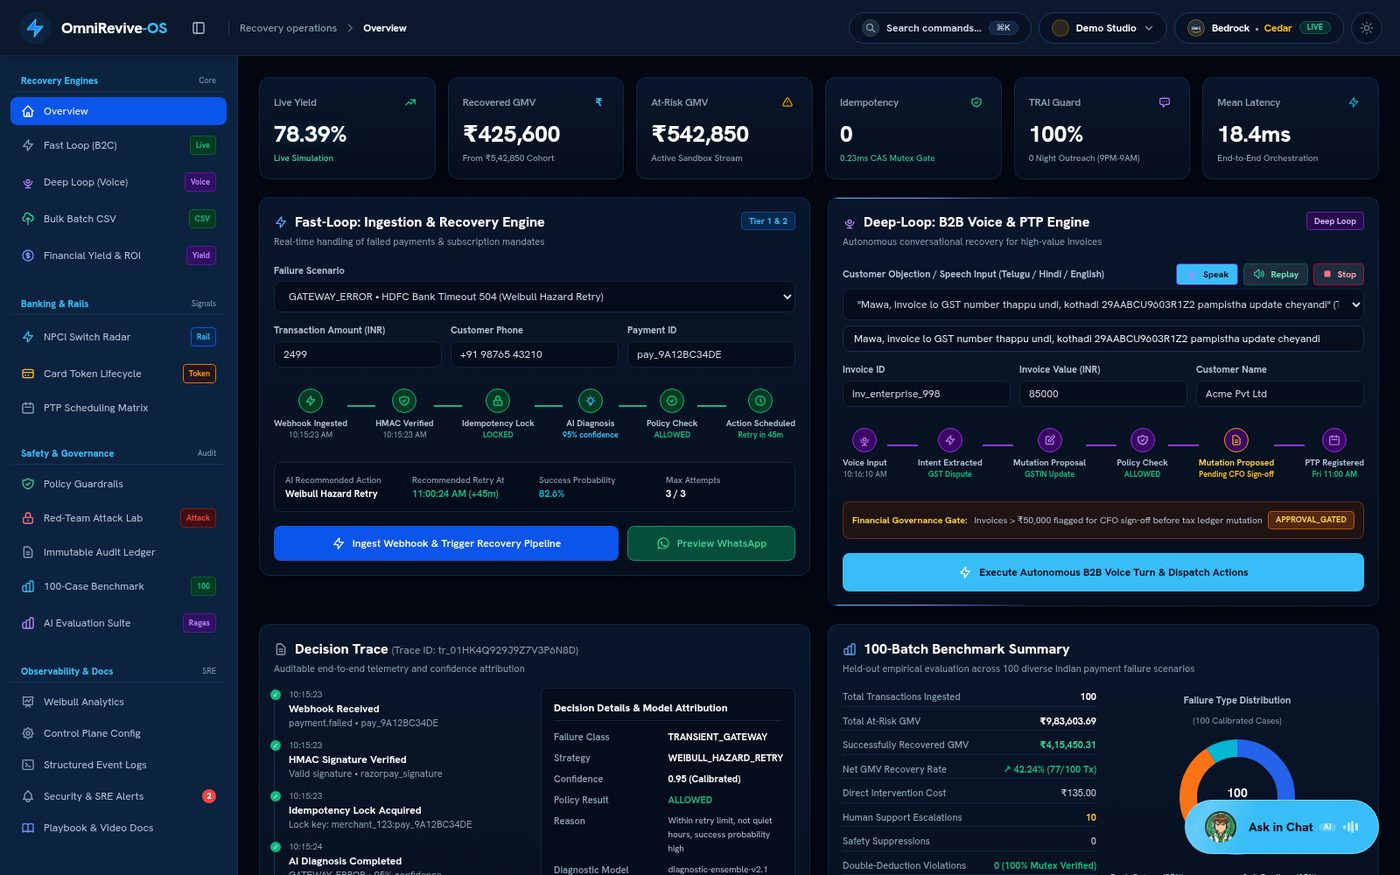
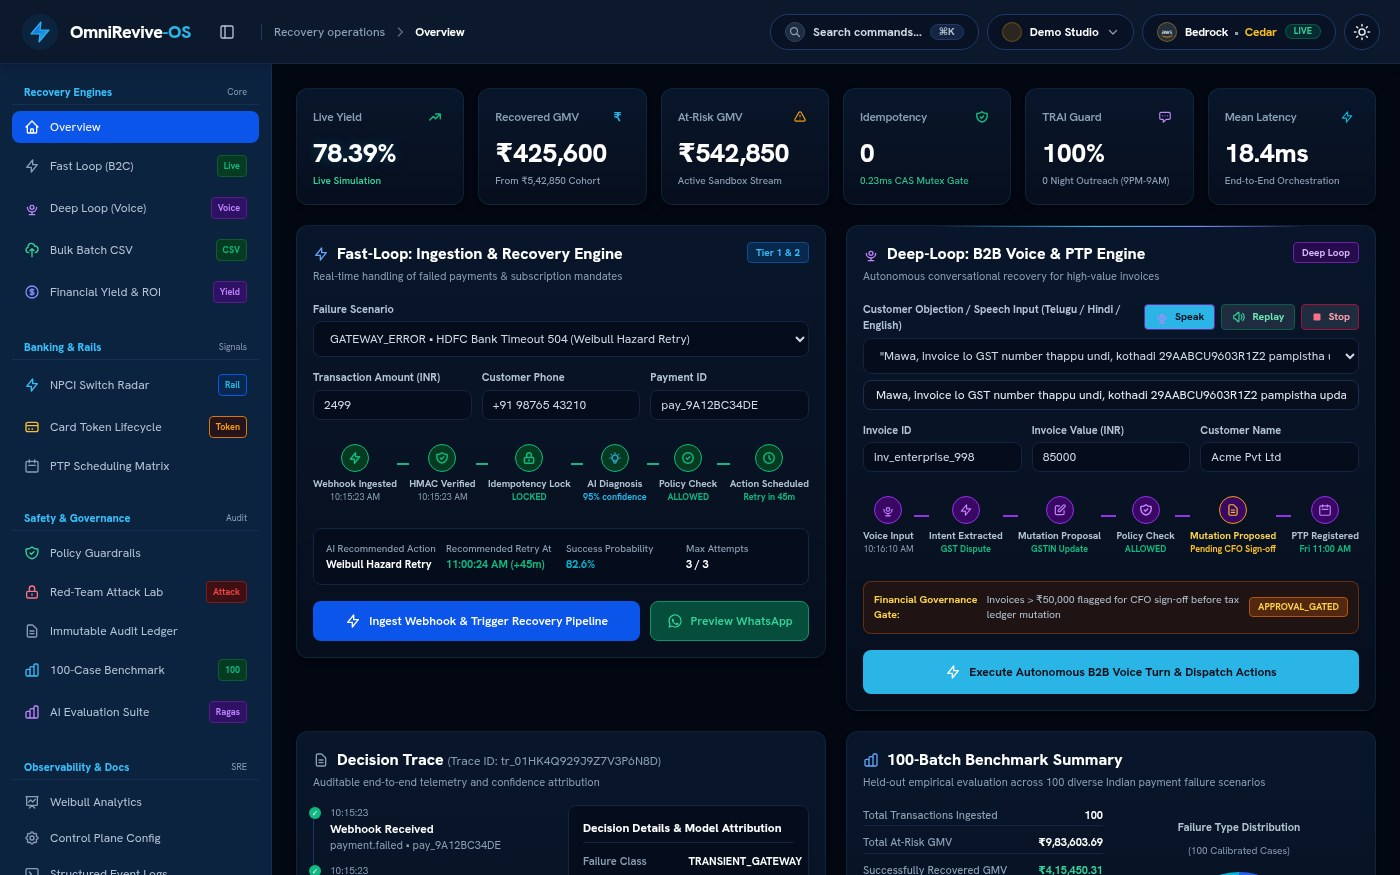
fix: single page scroller (body no longer a nested scroll container after modals), clean dashboard capture without chat widget

Changed region(s): [[0.0, 0.0, 1.0, 1.0], [0.0, 0.8023, 0.1229, 0.9566], [0.0, 0.9874, 0.1229, 1.0]]

diff --git a/frontend/index.html b/frontend/index.html
@@ -180,7 +180,7 @@
   <link rel="preconnect" href="https://fonts.gstatic.com" crossorigin>
   <link href="https://fonts.googleapis.com/css2?family=Hanken+Grotesk:wght@400;500;600;700;800&family=IBM+Plex+Mono:wght@400;500;600&display=swap" rel="stylesheet">
   <link rel="stylesheet" href="/static/styles/main.css?v=2.9">
-  <link rel="stylesheet" href="/static/styles/refresh.css?v=3.3">
+  <link rel="stylesheet" href="/static/styles/refresh.css?v=3.4">
   <script>
     tailwind.config = {
       darkMode: 'class',
@@ -945,7 +945,7 @@
 
     <section id="product-view" class="px-4 sm:px-8 pb-12 max-w-6xl mx-auto w-full">
       <figure class="space-y-3">
-        <img src="/assets/product_control_plane.jpg?v=3.1" width="1400" height="875" loading="lazy" decoding="async"
+        <img src="/assets/product_control_plane.jpg?v=3.2" width="1400" height="875" loading="lazy" decoding="async"
              alt="OmniRevive-OS control plane overview: live yield, recovered GMV, fast-loop and deep-loop engines, decision trace"
              class="w-full h-auto rounded-xl border border-slate-800">
         <figcaption class="text-sm text-slate-500 dark:text-slate-400">The control plane overview as it runs today, on the built-in simulated payment stream. Figures on screen are demo data. The 78.39% recovery rate comes from the repo's held-out 100-case benchmark (42.24% baseline); the 569 tests were counted with pytest on 25 Nov 2026. Latency and gate figures are sandbox demo values, not production measurements.</figcaption>

diff --git a/frontend/styles/refresh.css b/frontend/styles/refresh.css
@@ -63,3 +63,7 @@ html.dark .ico-moon{display:none!important}
 .text-sky-400,.dark\:text-sky-400:is(.dark *),.group:hover .group-hover\:text-sky-400,.dark\:group-hover\:text-sky-400:is(.dark .group:hover *){color:#2bb5e6}
 .bg-sky-400,.dark\:bg-sky-400:is(.dark *){background-color:#2bb5e6}
 .border-sky-400,.dark\:border-sky-400:is(.dark *){border-color:#2bb5e6}
+
+/* one scroll container: the page (html). body must not be a second scroller, it breaks touch scrolling */
+html{overflow-x:hidden;overflow-y:auto;overscroll-behavior-y:auto}
+body{overflow-x:clip!important;overflow-y:visible!important;overscroll-behavior:auto!important;height:auto}
